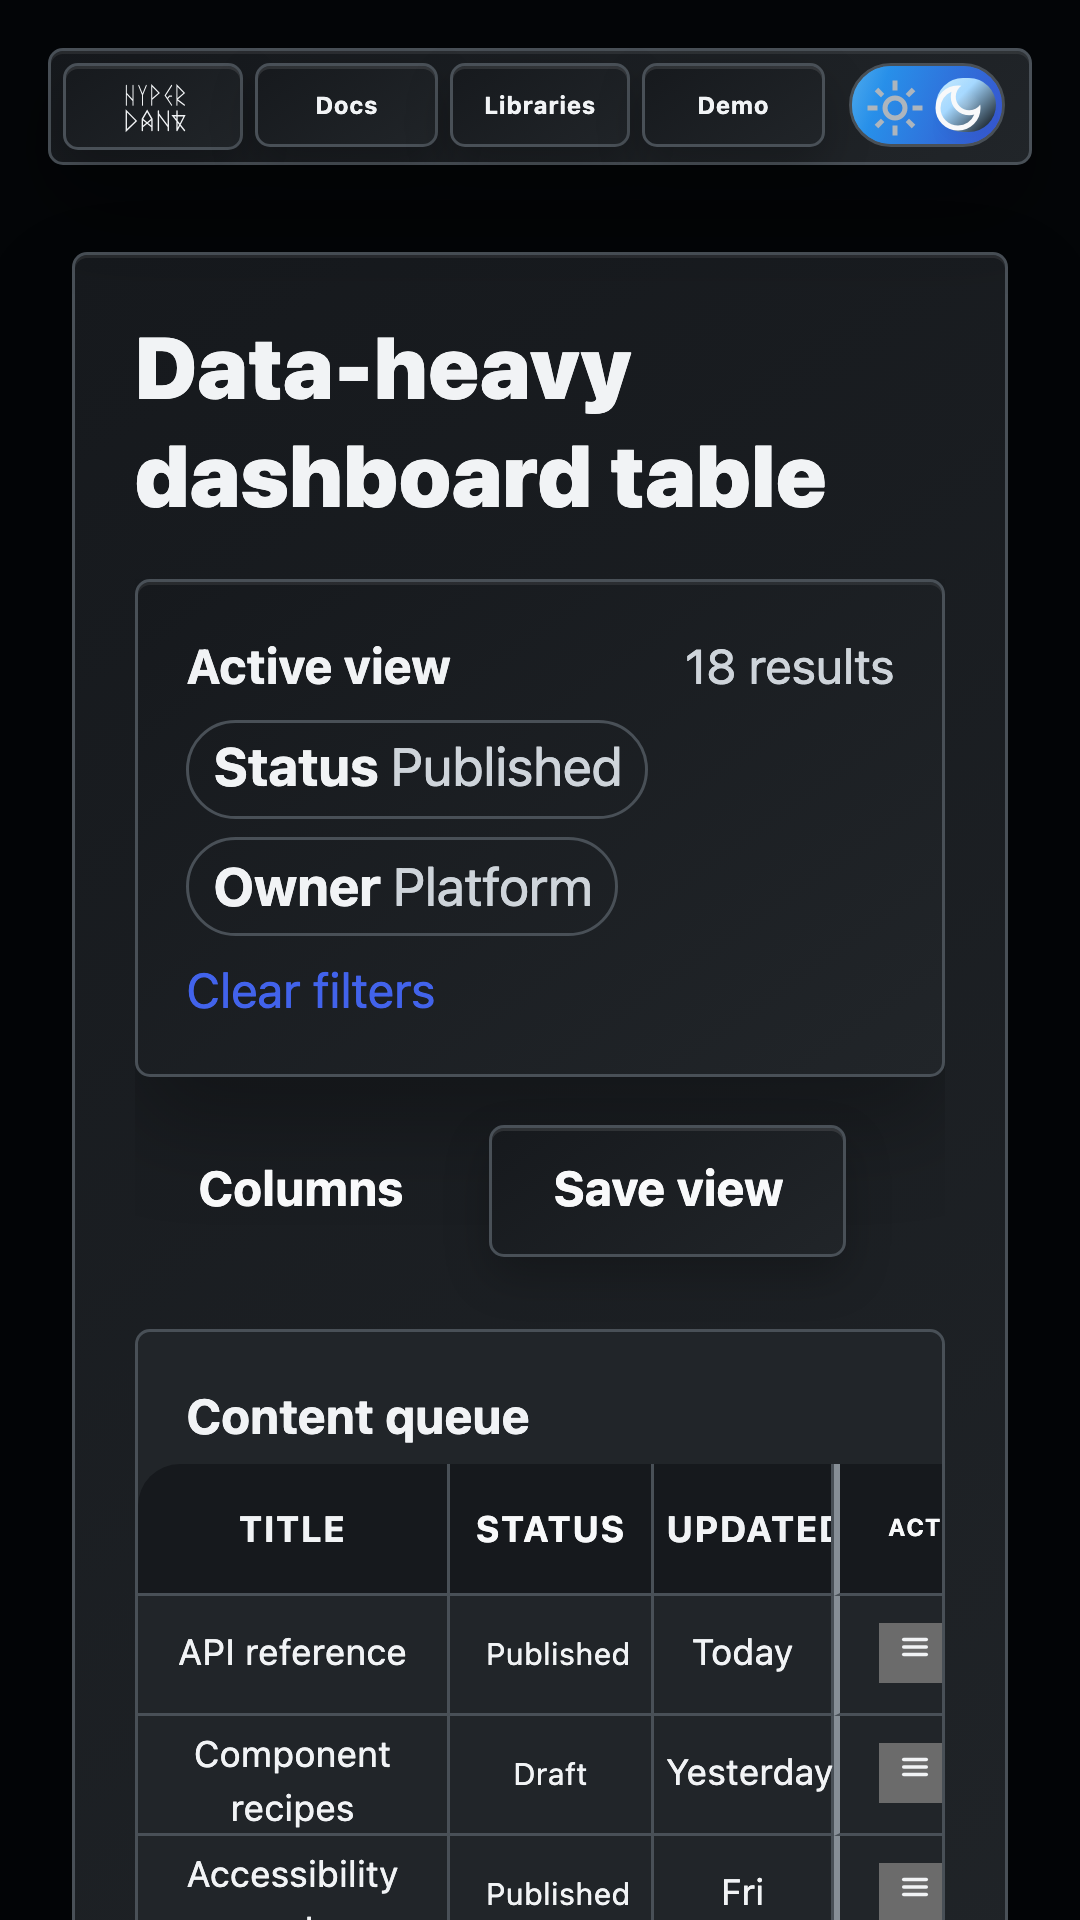
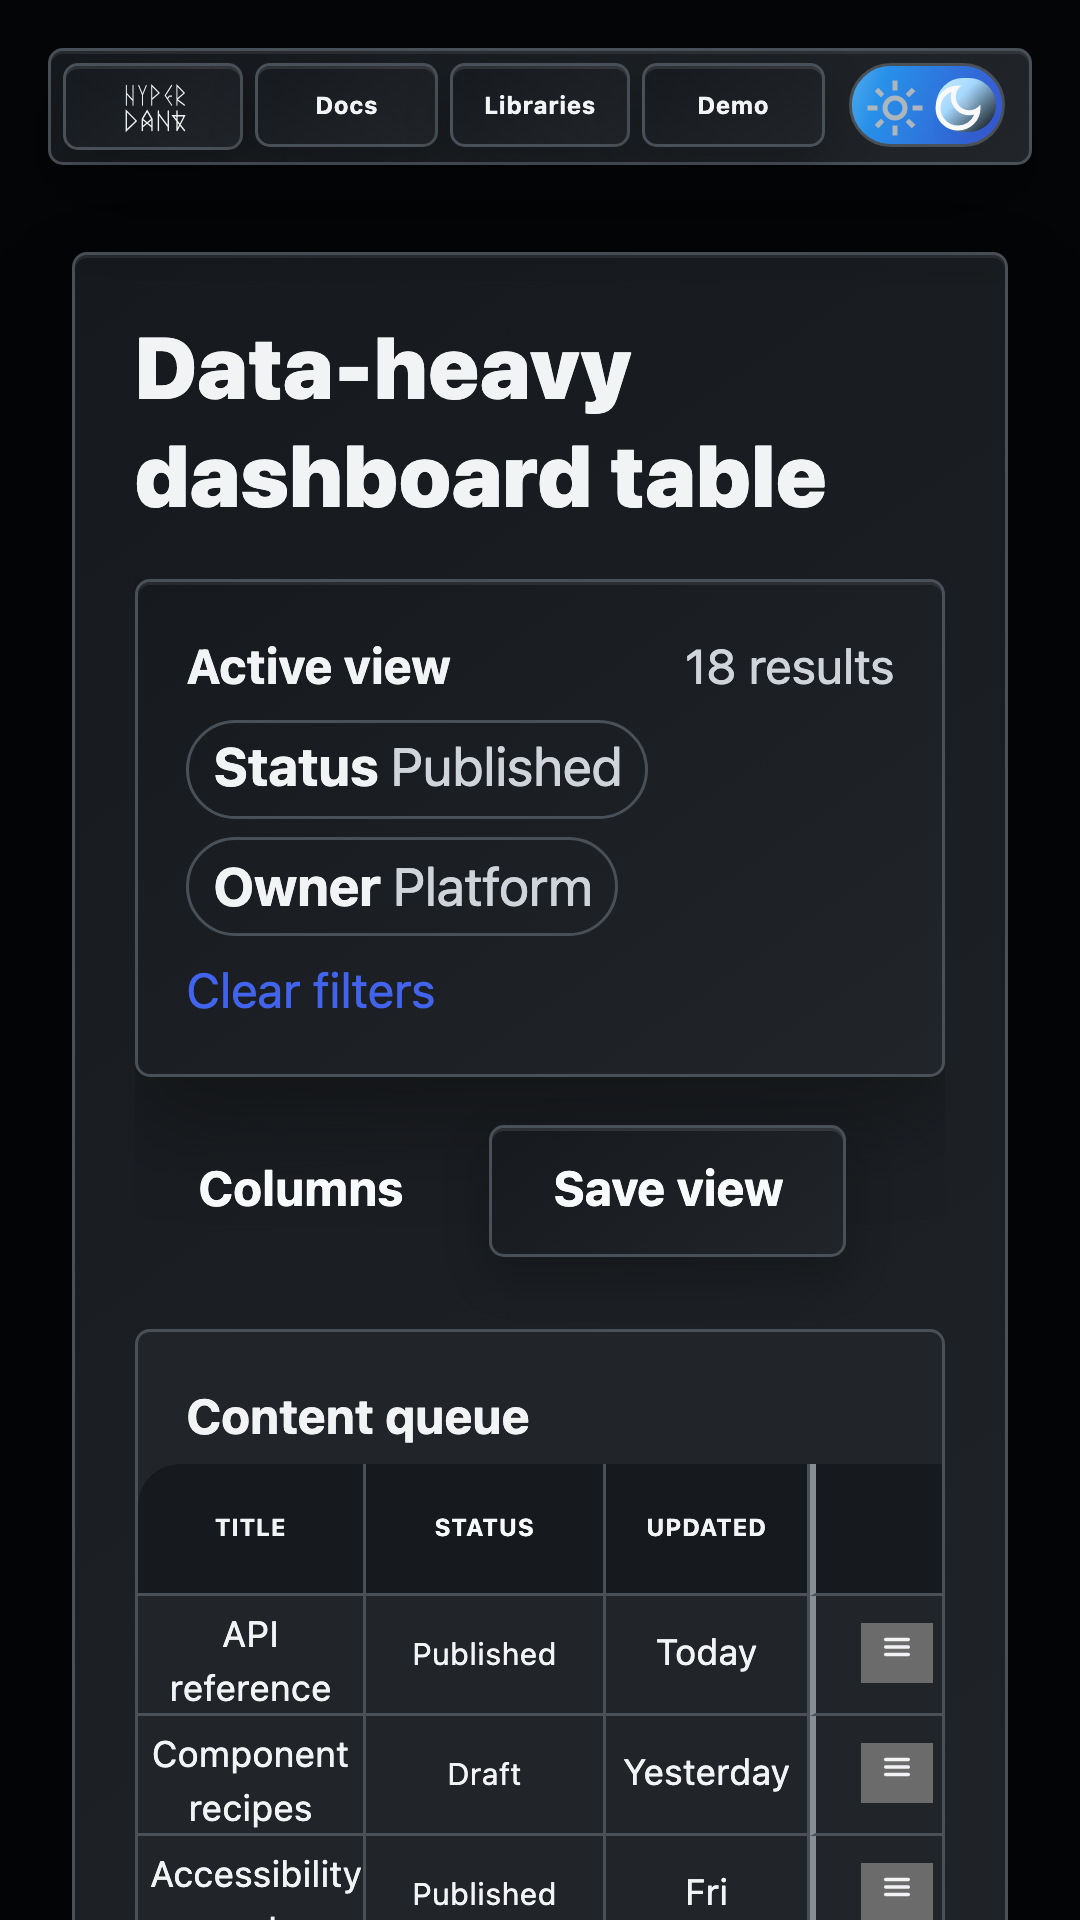
fix(ui): tighten dashboard table mobile layout

diff --git a/libs/components/src/molecules/ScrollableTable/ScrollableTable.stories.tsx b/libs/components/src/molecules/ScrollableTable/ScrollableTable.stories.tsx
@@ -87,27 +87,27 @@ export const DenseDashboardTable: Story = {
               header: <a href="/content?sort=title">Title</a>,
               sortDirection: "ascending",
               width: "minmax(12rem, 2fr)",
-              mobileWidth: "minmax(6.5rem, 1.35fr)",
+              mobileWidth: "minmax(4.75rem, 0.9fr)",
             },
             {
               key: "status",
               header: <a href="/content?sort=status">Status</a>,
               width: "minmax(7rem, 1fr)",
-              mobileWidth: "minmax(4.25rem, 0.8fr)",
+              mobileWidth: "minmax(5rem, 1fr)",
             },
             {
               key: "updated",
               header: <a href="/content?sort=updated">Updated</a>,
               sortDirection: "descending",
               width: "minmax(7rem, 1fr)",
-              mobileWidth: "minmax(3.75rem, 0.7fr)",
+              mobileWidth: "minmax(4.25rem, 0.85fr)",
             },
             {
               key: "actions",
-              header: <abbr title="Actions">Act</abbr>,
+              header: <span class="visually-hidden">Actions</span>,
               isAction: true,
               width: "5.5rem",
-              mobileWidth: "3.25rem",
+              mobileWidth: "3.5rem",
             },
           ]}
           isScrollable

diff --git a/.storybook/storybook.css b/.storybook/storybook.css
@@ -296,6 +296,12 @@ body {
   min-width: 0;
 }
 
+.storybook-dashboard-table th {
+  font-size: var(--font-size-0);
+  letter-spacing: 0;
+  padding-inline: var(--size-1);
+}
+
 .storybook-dashboard-toolbar {
   display: flex;
   flex-wrap: wrap;
@@ -310,12 +316,27 @@ body {
   font-size: var(--font-size-00);
 }
 
-.storybook-dashboard-table th[data-action-column="true"] abbr {
-  text-decoration: none;
+.storybook-dashboard-table .visually-hidden {
+  border: 0;
+  clip: rect(0 0 0 0);
+  height: 1px;
+  margin: -1px;
+  overflow: hidden;
+  padding: 0;
+  position: absolute;
+  white-space: nowrap;
+  width: 1px;
 }
 
 .storybook-dashboard-row .popover-menu {
   justify-self: center;
+}
+
+@media (max-width: 640px) {
+  .storybook-dashboard-table th {
+    font-size: var(--font-size-00);
+    padding-inline: 0.35rem;
+  }
 }
 
 .storybook-doc {
